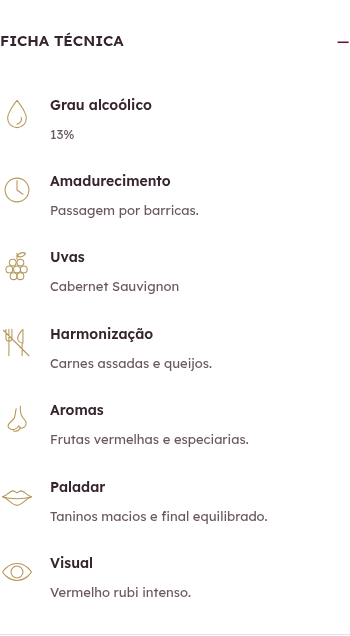
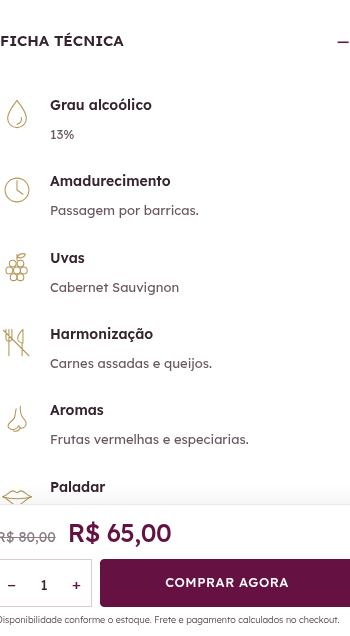
Match Mistral product typography and structure; support optional award metafields

diff --git a/assets/videira-white.css b/assets/videira-white.css
@@ -43,3 +43,9 @@ html:has(body.storefront.vm-store){background:#fff!important}.storefront.vm-stor
 .storefront.vm-store .vm-product-card .vm-card-facts.vm-card-facts--roomy-region>p:last-child>strong{-webkit-line-clamp:3;max-height:3.9em}
 @media(max-width:359px){.storefront.vm-store .vm-product-card .vm-card-facts.vm-card-facts--roomy-region>p:last-child>strong{-webkit-line-clamp:2;max-height:2.6em}}
 .storefront.vm-store .mi-mega h2,.storefront.vm-store .vm-filter-header h2,.storefront.vm-store .vm-menu-links h2,.storefront.vm-store .pd-description h2{font-family:Lexend,Arial,sans-serif!important;font-weight:600!important;letter-spacing:0}
+/* Mistral reference: verified Lexend + Playfair Display, adapted to Videira. */
+.storefront.vm-store .pd-grid{gap:52px;align-items:start}.storefront.vm-store .pd-gallery{position:relative;min-width:0}.storefront.vm-store .pd-photo-button{display:block;position:relative;width:100%;height:600px!important;border:0!important;border-radius:0!important;background:#f1f1f1!important;padding:45px!important}.storefront.vm-store .pd-photo-button .pd-original-photo{width:100%!important;height:100%!important;max-height:510px!important;object-fit:contain;mix-blend-mode:multiply}.storefront.vm-store .pd-zoom-hint{font:400 12px/1.5 Lexend,Arial,sans-serif!important;color:#651242;right:18px;bottom:14px}.storefront.vm-store .pd-summary h1{font:600 40px/1.2 'Playfair Display',Georgia,serif!important;margin:0 0 12px!important;color:#651242!important;letter-spacing:-.5px}.storefront.vm-store .pd-product-code{font-size:12px;color:#8c858a;margin:0 0 12px}.storefront.vm-store .pd-identity{margin-bottom:24px}.storefront.vm-store .pd-identity-row{display:flex!important;align-items:flex-start;gap:12px;border-bottom:1px solid #dedade;padding:14px 0!important;margin:0!important}.storefront.vm-store .pd-identity-row>svg{width:25px;height:27px;flex:0 0 25px;color:#493540}.storefront.vm-store .pd-identity-row>div{min-width:0;flex:1}.storefront.vm-store .pd-identity-row h2{font:400 13px/1.5 Lexend,Arial,sans-serif!important;letter-spacing:0;color:#493540;margin:0 0 8px!important}.storefront.vm-store .pd-identity-row p,.storefront.vm-store .pd-identity-row .pd-winery{display:block;font:400 16px/1.6 Lexend,Arial,sans-serif!important;color:#651242!important;margin:0!important;text-decoration:none!important;border:0!important}.storefront.vm-store .pd-identity-row:last-child p{color:#36242f!important}.storefront.vm-store .pd-volume{display:inline-flex;align-items:center;gap:5px;padding:6px 12px;border:1px solid #66515e;border-radius:24px;margin:0 0 24px;font-size:13px}.storefront.vm-store .pd-volume svg{width:20px;height:24px}.storefront.vm-store .pd-purchase-dock{background:white;margin-top:20px}.storefront.vm-store .pd-purchase-dock .pd-price{padding:0!important;border:0!important;margin:0 0 14px!important;display:flex;align-items:baseline;gap:12px}.storefront.vm-store .pd-purchase-dock .pd-price strong{font:500 30px/1.3 Lexend,Arial,sans-serif!important;color:#651242!important;letter-spacing:-.5px}.storefront.vm-store .pd-purchase-dock .pd-price del{font-size:14px;color:#8c7c85}.storefront.vm-store .pd-purchase{display:grid!important;grid-template-columns:110px minmax(0,1fr);gap:8px!important;align-items:stretch!important;margin:0!important}.storefront.vm-store .pd-purchase .vm-quantity{width:110px;height:48px;border-radius:0;grid-template-columns:32px minmax(0,1fr) 32px}.storefront.vm-store .pd-purchase .vm-quantity input{height:46px!important;width:100%!important;margin:0!important;padding:0!important;border:0!important;border-radius:0!important;font-size:15px}.storefront.vm-store .pd-purchase .sf-button{min-height:48px;height:auto;border-radius:0!important;background:#651242!important;color:white!important;font:500 13px/1.4 Lexend,Arial,sans-serif!important;letter-spacing:.5px;padding:12px!important}.storefront.vm-store .pd-shipping-note{font-size:11px!important;line-height:1.5!important;color:#86727e;margin:9px 0 0!important}.storefront.vm-store .vm-awards{display:flex;gap:5px;position:absolute;z-index:2;top:0;left:0;max-width:calc(100% - 42px);pointer-events:none}.storefront.vm-store .vm-award{width:74px;min-height:78px;padding:8px 6px;background:#651242;color:white;text-align:center;display:flex;align-items:center;justify-content:center;flex-direction:column;gap:4px;overflow-wrap:anywhere}.storefront.vm-store .vm-award strong{font:600 23px/1.1 'Playfair Display',Georgia,serif!important}.storefront.vm-store .vm-award span{font:400 10px/1.4 Lexend,Arial,sans-serif!important}.storefront.vm-store .vm-product-card .vm-award{width:51px;min-height:60px;padding:6px 4px}.storefront.vm-store .vm-product-card .vm-award strong{font-size:19px!important}.storefront.vm-store .vm-product-card .vm-award span{font-size:8px!important}
+@media(min-width:761px) and (max-width:1023px){.storefront.vm-store .pd-grid{gap:28px}.storefront.vm-store .pd-photo-button{height:470px!important;padding:30px!important}.storefront.vm-store .pd-summary h1{font-size:34px!important}}
+@media(max-width:760px){.storefront.vm-store .pd-product{padding-top:12px!important}.storefront.vm-store .pd-breadcrumb{font-size:10px!important;margin-bottom:15px!important;line-height:1.6}.storefront.vm-store .pd-grid{display:grid;grid-template-columns:1fr!important;gap:24px!important}.storefront.vm-store .pd-photo-button{height:400px!important;padding:35px!important}.storefront.vm-store .pd-photo-button .pd-original-photo{max-height:330px!important}.storefront.vm-store .pd-summary h1{font-size:30px!important;line-height:1.2!important;margin-bottom:12px!important}.storefront.vm-store .pd-identity-row{padding:12px 0!important;gap:10px}.storefront.vm-store .pd-identity-row h2{font-size:12px!important;margin-bottom:7px!important}.storefront.vm-store .pd-identity-row p,.storefront.vm-store .pd-identity-row .pd-winery{font-size:15px!important}.storefront.vm-store .pd-purchase-dock{position:fixed;bottom:0;left:0;right:0;z-index:25;padding:12px 16px calc(10px + env(safe-area-inset-bottom));margin:0;box-shadow:0 -3px 20px #36242f12;border-top:1px solid #eee8ec}.storefront.vm-store .pd-purchase-dock .pd-price{margin-bottom:8px!important}.storefront.vm-store .pd-purchase-dock .pd-price strong{font-size:25px!important}.storefront.vm-store .pd-purchase{grid-template-columns:96px minmax(0,1fr)}.storefront.vm-store .pd-purchase .vm-quantity{width:96px;grid-template-columns:29px minmax(0,1fr) 29px}.storefront.vm-store .pd-shipping-note{font-size:9px!important;margin-top:6px!important}.storefront.vm-store.template-product{padding-bottom:155px}.storefront.vm-store .pd-volume{margin-bottom:18px}.storefront.vm-store .pd-gallery>.vm-awards{top:0;left:0}}
+/* Keep award badges attached to the gallery at every breakpoint. */
+.storefront.vm-store.template-product .pd-gallery{position:relative!important;top:auto!important}.storefront.vm-store.template-product .pd-purchase-dock .vm-quantity{display:grid!important}

diff --git a/assets/videira.js b/assets/videira.js
@@ -143,7 +143,7 @@
         document.querySelector('[data-product-price]').textContent = variant.price;
         const compare = document.querySelector('[data-product-compare]'); compare.textContent = variant.compare; compare.hidden = !variant.on_sale;
         document.querySelector('[data-product-submit]').disabled = !variant.available;
-        document.querySelector('[data-product-button-label]').textContent = variant.available ? config.add : config.soldOut;
+        document.querySelector('[data-product-button-label]').textContent = variant.available ? (document.querySelector('[data-product-submit]')?.dataset.productBuyLabel || config.add) : config.soldOut;
         const qty = document.getElementById('product-quantity'); qty.min = variant.min; qty.step = variant.step; qty.value = variant.min;
         if (variant.max) qty.max = variant.max; else qty.removeAttribute('max');
         if (variant.image) setImage(variant.image);

diff --git a/docs/preview.html b/docs/preview.html
@@ -15,7 +15,7 @@
 
 <link rel="stylesheet" href="../assets/videira-storefront.css">
 <link rel="stylesheet" href="../assets/videira-white.css">
-<style>}') format('truetype')}:root{--vm-wine:#651242;--vm-gold:#b59758;--nv-wine:#651242;--nv-gold:#b59758;--nv-paper:#ffffff}</style>
+<style>:root{--vm-wine:#651242;--vm-gold:#b59758;--nv-wine:#651242;--nv-gold:#b59758;--nv-paper:#ffffff}</style>
 <script src="../assets/videira.js" defer></script>
 <script src="../assets/videira-store.js" defer></script>
 <script type="application/json" id="videira-config">{"root":"/","cart":"/cart","add":"Adicionar ao carrinho","soldOut":"Indisponível","added":"Vinho adicionado ao carrinho.","error":"Não foi possível adicionar o vinho. Tente novamente.","cartError":"Não foi possível carregar o carrinho. Abra a página do carrinho para continuar."}</script>

diff --git a/README.md b/README.md
@@ -79,3 +79,11 @@ A faixa acima do cabeçalho alterna uma mensagem completa por vez: **ENVIO PARA 
 A newsletter continua usando o formulário nativo Shopify. Após `form.posted_successfully?`, mostra **Inscrição recebida com sucesso!** e leva o foco para essa confirmação. Erros retornados pela Shopify têm um bloco separado; o tema não informa sucesso somente por clicar. O aplicativo futuro de e-mails poderá cuidar dos envios, conforme sua integração e configuração.
 
 O rodapé mantém a estrutura aprovada, com o texto **Uma seleção de vinhos. Um mundo para descobrir.** e apresentação tipográfica revisada.
+
+### Produto: referência Mistral e premiação
+
+Conferido em mistral.com.br: Lexend nos textos e Playfair Display 600 no título do produto (30 px no celular). A identidade continua branco, bordô e dourado. Produtor, origem e uvas usam os dados do produto, separados por ícones e divisórias. A compra móvel tem um único formulário fixo; variantes, estoque, limites de quantidade e carrinho nativo continuam ativos.
+
+Para o selo opcional, use um metacampo de **produto** chamado **Premiação**, namespace/chave **`custom.premiacao`**, tipo **Texto de várias linhas** (também aceita lista de textos). Uma premiação por linha: `91 | Nome do avaliador` ou `Medalha de Ouro`. O primeiro formato destaca a nota acima do nome; o segundo exibe o texto informado. Até três selos aparecem na foto e nos cards. Campo vazio não gera selo. Não há notas ou avaliadores inventados. O tema lê o campo; a definição e os valores são gerenciados no admin da Shopify.
+
+`tests/product-reference.mjs` valida celular, tablet e desktop; as capturas `docs/product-reference-*.png` usam premiação fictícia explicitamente identificada para demonstrar o layout, sem alterar produtos da loja.

diff --git a/docs/validacao.md b/docs/validacao.md
@@ -19,3 +19,5 @@ Revisão final: Chromium em 390, 820 e 1440 px verificou posição esquerda da l
 Conferência na loja: o campo de blend é `custom.blends`, do tipo texto com várias linhas. Foi acrescentado à leitura com prioridade sobre uva única e teste de duas uvas separadas por quebra de linha. As categorias Espumante e Frisante retornaram 5 e 2 produtos na conferência pública da loja.
 
 Revisão de alinhamento e newsletter: medidas dos cards preservadas em 390, 820 e 1440 px. Preço e compra foram comparados por coordenadas em cards com nomes e regiões de tamanhos diferentes. Foram verificadas a tipografia padronizada e a alternância de uma mensagem superior por vez. A fixture testou cadastro aceito, erro de servidor e e-mail inválido, com mensagem de sucesso somente no estado aceito. Não foram cadastrados contatos ou enviados e-mails na loja real durante os testes.
+
+Produto Mistral: fonte conferida ao vivo via CSS e navegador: título Playfair Display 600/30px no celular; textos Lexend. Selos opcionais testados com texto, lista, ausência e conteúdo escapado. Formulário de compra único, seletor nativo, estoque e limites mantidos. Capturas product-reference usam dados de demonstração locais.
